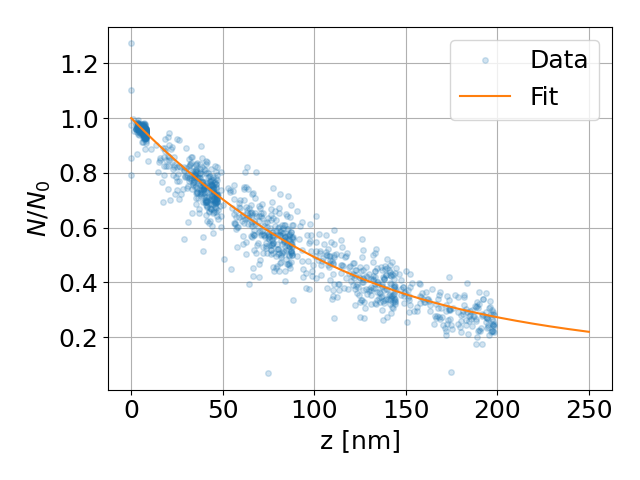
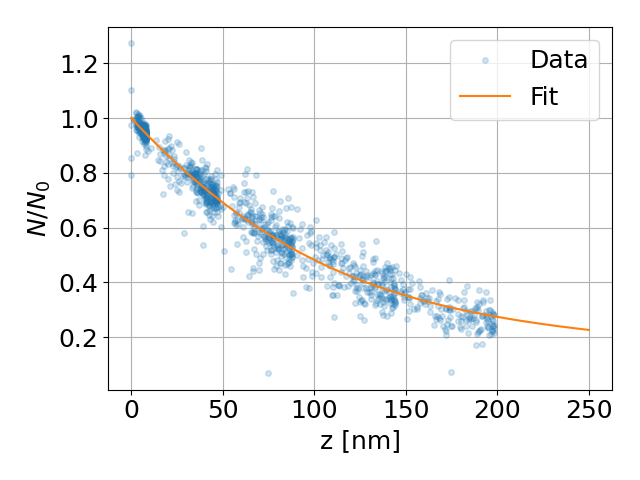
use gaussian fit and cleanup based on z score to extract average parameters from individual ones

Changed region(s): [[0.1875, 0.2188, 0.9062, 0.7188]]

diff --git a/src/picasimpler/main/analysis.py b/src/picasimpler/main/analysis.py
@@ -10,12 +10,13 @@ from pathlib import Path
 from scipy.spatial import distance
 from scipy.optimize import curve_fit, fsolve
 from scipy.interpolate import interp1d
+from scipy.stats import norm
 from sklearn.mixture import GaussianMixture
 from sklearn.cluster import HDBSCAN
 from PyQt6.QtCore import QObject, pyqtSignal, pyqtSlot
     
 from picasimpler.helpers.status import AnalysisStatus, MessageType
-from picasimpler.helpers.utils import px_to_nm
+from picasimpler.helpers.utils import cleanup_z_score, calc_tirf_angle_werr, px_to_nm
 from picasimpler.helpers.cf_calc import SimulQ
 from picasimpler.config.config_var import (
     MAX_FIRST_FRAME_PERC,
@@ -527,17 +528,23 @@ class SpatialFit(QObject):
             self.alpha_arr[orig_idx] = popt[0]
             self.N_0_arr[orig_idx] = popt[1]
 
-        self.alpha_exc = np.mean(self.alpha_arr)
-        self.alpha_exc_err = np.std(self.alpha_arr)
+        self.N_renorm_arr = self.clust_means[:, :, 2]/self.N_0_arr[:, np.newaxis]
+
+        self.alpha_arr = cleanup_z_score(self.alpha_arr)
+        self.N_0_arr = cleanup_z_score(self.N_0_arr)
+
+        self.alpha_exc, self.alpha_exc_err = norm.fit(self.alpha_arr)
+        #self.alpha_exc = np.mean(self.alpha_arr)
+        #self.alpha_exc_err = np.std(self.alpha_arr)
         self.d_exc = d_exc
         self.d_exc_err = 0
 
         self.tirf_angle = self.params.tirf_angle
         self.tirf_angle_err = 0
         
-        self.N_renorm_arr = self.clust_means[:, :, 2]/self.N_0_arr[:, np.newaxis]
-        self.N_0_avg = np.mean(self.N_0_arr)
-        self.N_0_std = np.std(self.N_0_arr)
+        self.N_0_avg, self.N_0_std = norm.fit(self.N_0_arr)
+        #self.N_0_avg = np.mean(self.N_0_arr)
+        #self.N_0_std = np.std(self.N_0_arr)
         # variables for plot
         self.z_ax_forplot = np.linspace(0, CALIB_PLOT_RANGE_NM, CALIB_PLOT_PTS)
         self.fit_func_forplot = N(self.z_ax_forplot, self.alpha_exc, 1)
@@ -562,21 +569,24 @@ class SpatialFit(QObject):
             self.alpha_arr[orig_idx] = popt[1]
             self.N_0_arr[orig_idx] = popt[2]
 
-        self.d_exc = np.mean(self.d_exc_arr)
-        self.d_exc_err = np.std(self.d_exc_arr)
-        self.alpha_exc = np.mean(self.alpha_arr)
-        self.alpha_exc_err = np.std(self.alpha_arr)
-
-        tirf_angle_lambda_factor = self.params.lambda_exc / (4*np.pi)
-        tirf_angle_sqrt_factor = np.sqrt(((tirf_angle_lambda_factor / self.d_exc)**2 + self.params.n_s**2))
-        tirf_angle_sin = tirf_angle_sqrt_factor / self.params.n_i
-        tirf_angle_deriv = (1 / np.sqrt(1 - tirf_angle_sin**2)) * (1 / self.params.n_i) * (1/2) * (1 / tirf_angle_sqrt_factor) * tirf_angle_lambda_factor**2 * (2/self.d_exc**3) * (180/np.pi)
-        self.tirf_angle = np.arcsin(tirf_angle_sin)*180/np.pi
-        self.tirf_angle_err = np.abs(tirf_angle_deriv) * self.d_exc_err
-        
         self.N_renorm_arr = self.clust_means[:, :, 2]/self.N_0_arr[:, np.newaxis]
-        self.N_0_avg = np.mean(self.N_0_arr)
-        self.N_0_std = np.std(self.N_0_arr)
+
+        self.d_exc_arr = cleanup_z_score(self.d_exc_arr)
+        self.alpha_arr = cleanup_z_score(self.alpha_arr)
+        self.N_0_arr = cleanup_z_score(self.N_0_arr)
+
+        self.d_exc, self.d_exc_err = norm.fit(self.d_exc_arr)
+        #self.d_exc = np.mean(self.d_exc_arr)
+        #self.d_exc_err = np.std(self.d_exc_arr)
+        self.alpha_exc, self.alpha_exc_err = norm.fit(self.alpha_arr)
+        #self.alpha_exc = np.mean(self.alpha_arr)
+        #self.alpha_exc_err = np.std(self.alpha_arr)
+
+        self.tirf_angle, self.tirf_angle_err = calc_tirf_angle_werr(self.d_exc, self.d_exc_err)
+        
+        self.N_0_avg, self.N_0_std = norm.fit(self.N_0_arr)
+        #self.N_0_avg = np.mean(self.N_0_arr)
+        #self.N_0_std = np.std(self.N_0_arr)
         # variables for plot
         self.z_ax_forplot = np.linspace(0, CALIB_PLOT_RANGE_NM, CALIB_PLOT_PTS)
         self.fit_func_forplot = N(self.z_ax_forplot, self.d_exc, self.alpha_exc, 1)
@@ -586,8 +596,8 @@ class SpatialFit(QObject):
         This function approximates the real decay with an exponential to get the global decay parameters
         """
         self.glob_prof = (self.alpha_exc*np.exp(-Z_SIM_FIT_ARR/self.d_exc) + (1 - self.alpha_exc))*self.params.coll_fl_interp_grid
-        def F_F(z, d_F, alpha_F, norm):
-            return norm*(alpha_F*np.exp(-z/d_F) + (1 - alpha_F))
+        def F_F(z, d_F, alpha_F, norm_fact):
+            return norm_fact*(alpha_F*np.exp(-z/d_F) + (1 - alpha_F))
         popt, pcov = curve_fit(F_F, Z_SIM_FIT_ARR, self.glob_prof, p0 = [200, 0.9, 0.1], bounds=([0, 0, 0],[np.inf, np.inf, np.inf]))
         self.d_F = popt[0]
         self.d_F_err = pcov[0, 0]

diff --git a/src/picasimpler/helpers/utils.py b/src/picasimpler/helpers/utils.py
@@ -1,4 +1,25 @@
+import numpy as np
 from enum import auto
+
+def gauss(xx, ampl, mu, sigma):
+    return ampl*np.exp(-(xx - mu)**2/(2*sigma**2))/np.sqrt(2*np.pi)/sigma
+
+def cleanup_z_score(data):
+    median = np.median(data)
+    mad = np.median(np.abs(data - median))
+    # modified z-score, robust to outliers (using MAD instead of std)
+    mod_z = 0.6745 * (data - median) / mad
+    clean_data = data[np.abs(mod_z) < 3.5]  # common threshold
+    return clean_data
+
+def calc_tirf_angle_werr(d_exc, d_exc_err, lambda_exc, n_i, n_s):
+    tirf_angle_lambda_factor = lambda_exc / (4*np.pi)
+    tirf_angle_sqrt_factor = np.sqrt(((tirf_angle_lambda_factor / d_exc)**2 + n_s**2))
+    tirf_angle_sin = tirf_angle_sqrt_factor / n_i
+    tirf_angle_deriv = (1 / np.sqrt(1 - tirf_angle_sin**2)) * (1 / n_i) * (1/2) * (1 / tirf_angle_sqrt_factor) * tirf_angle_lambda_factor**2 * (2/d_exc**3) * (180/np.pi)
+    tirf_angle = np.arcsin(tirf_angle_sin)*180/np.pi
+    tirf_angle_err = np.abs(tirf_angle_deriv) * d_exc_err
+    return tirf_angle, tirf_angle_err
 
 def px_to_nm(arr_toconv, px_size_nm):
     """
